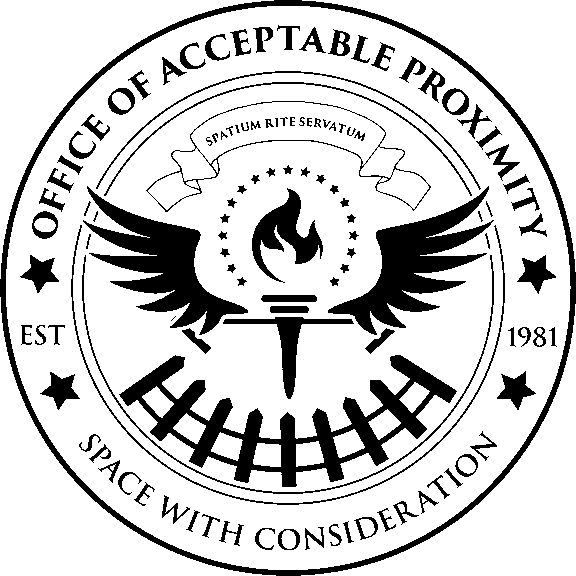
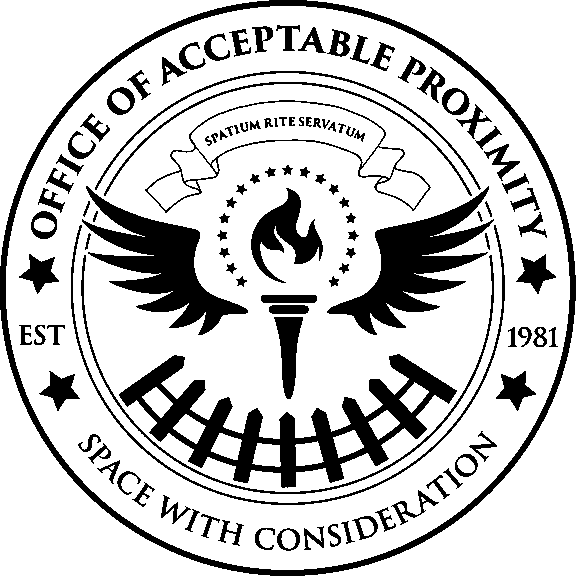
Replace the Acceptable Proximity seal and add a seal bake script
The old seal carried an export artifact: a detached angular fragment
floating below the left wing plus a stray bar at the wing tip, which at
288px reads as printer dirt. The designers supplied a corrected V2.

The V2 SVG could not be used directly — its type is live Trajan Pro 3
rather than outlines, and cairosvg silently substitutes a different face,
so the ring lettering would not have matched the other five seals. Baked
from their PNG export instead, with the source kept in assets/seals/.

prep_seals.py bakes both sizes from that source: flatten, trim to the
artwork so the framing matches the existing seals, square up rather than
stretch, scale, threshold. The threshold is high because the 288px variant
is the one that prints and the ring text thins out on the way down. The
other five seals have no source here and are left alone.

diff --git a/scripts/prep_seals.py b/scripts/prep_seals.py
@@ -1,0 +1,76 @@
+#!/usr/bin/env python3
+"""Bake department seals into the two print-ready sizes.
+
+Source artwork lives in assets/seals/ at whatever size the designers export.
+This writes assets/images/{theme}_seal.png (576px) and _seal_sm.png (288px),
+both 1-bit. The small one is what actually prints — _compose_dispatch prefers
+it and only falls back to the full size.
+
+Only themes with a source file here are rebuilt; the rest of the seals in
+assets/images/ predate this script and were baked by hand.
+
+Usage:
+    uv run python scripts/prep_seals.py
+"""
+
+from pathlib import Path
+
+from PIL import Image
+
+ROOT = Path(__file__).resolve().parent.parent
+SRC_DIR = ROOT / "assets" / "seals"
+OUT_DIR = ROOT / "assets" / "images"
+
+FULL = 576
+SMALL = 288
+
+# Seals are ring text and hairline rules. Downscaling to 288px thins both, so
+# the threshold sits high to keep them from dropping out — same reasoning as
+# the worksheets in prep_drawings.py, and more critical here because the small
+# variant is the one that prints.
+THRESHOLD = 200
+
+
+def bake(src_path: Path, size: int) -> Image.Image:
+    """Flatten, trim to the artwork, square up, scale, threshold to 1-bit."""
+    img = Image.open(src_path)
+
+    if "A" in img.getbands():
+        flat = Image.new("RGB", img.size, (255, 255, 255))
+        flat.paste(img, mask=img.getchannel("A"))
+        img = flat
+
+    img = img.convert("L")
+
+    # Exports carry a lot of surrounding whitespace; the existing seals are
+    # cropped tight, so match that or this one prints visibly smaller.
+    ink = img.point(lambda v: 255 if v < 200 else 0)
+    box = ink.getbbox()
+    if box:
+        img = img.crop(box)
+
+    # Keep it round: pad the shorter axis rather than stretching.
+    side = max(img.size)
+    square = Image.new("L", (side, side), 255)
+    square.paste(img, ((side - img.width) // 2, (side - img.height) // 2))
+
+    square = square.resize((size, size), Image.LANCZOS)
+    return square.point(lambda v: 0 if v < THRESHOLD else 255).convert("1")
+
+
+def main():
+    sources = sorted(SRC_DIR.glob("*.png"))
+    if not sources:
+        print(f"No sources in {SRC_DIR.relative_to(ROOT)}/")
+        return
+
+    for src in sources:
+        theme = src.stem
+        for size, suffix in ((FULL, "_seal"), (SMALL, "_seal_sm")):
+            out = OUT_DIR / f"{theme}{suffix}.png"
+            bake(src, size).save(str(out))
+            print(f"  {out.name}: {size}x{size}")
+
+
+if __name__ == "__main__":
+    main()
